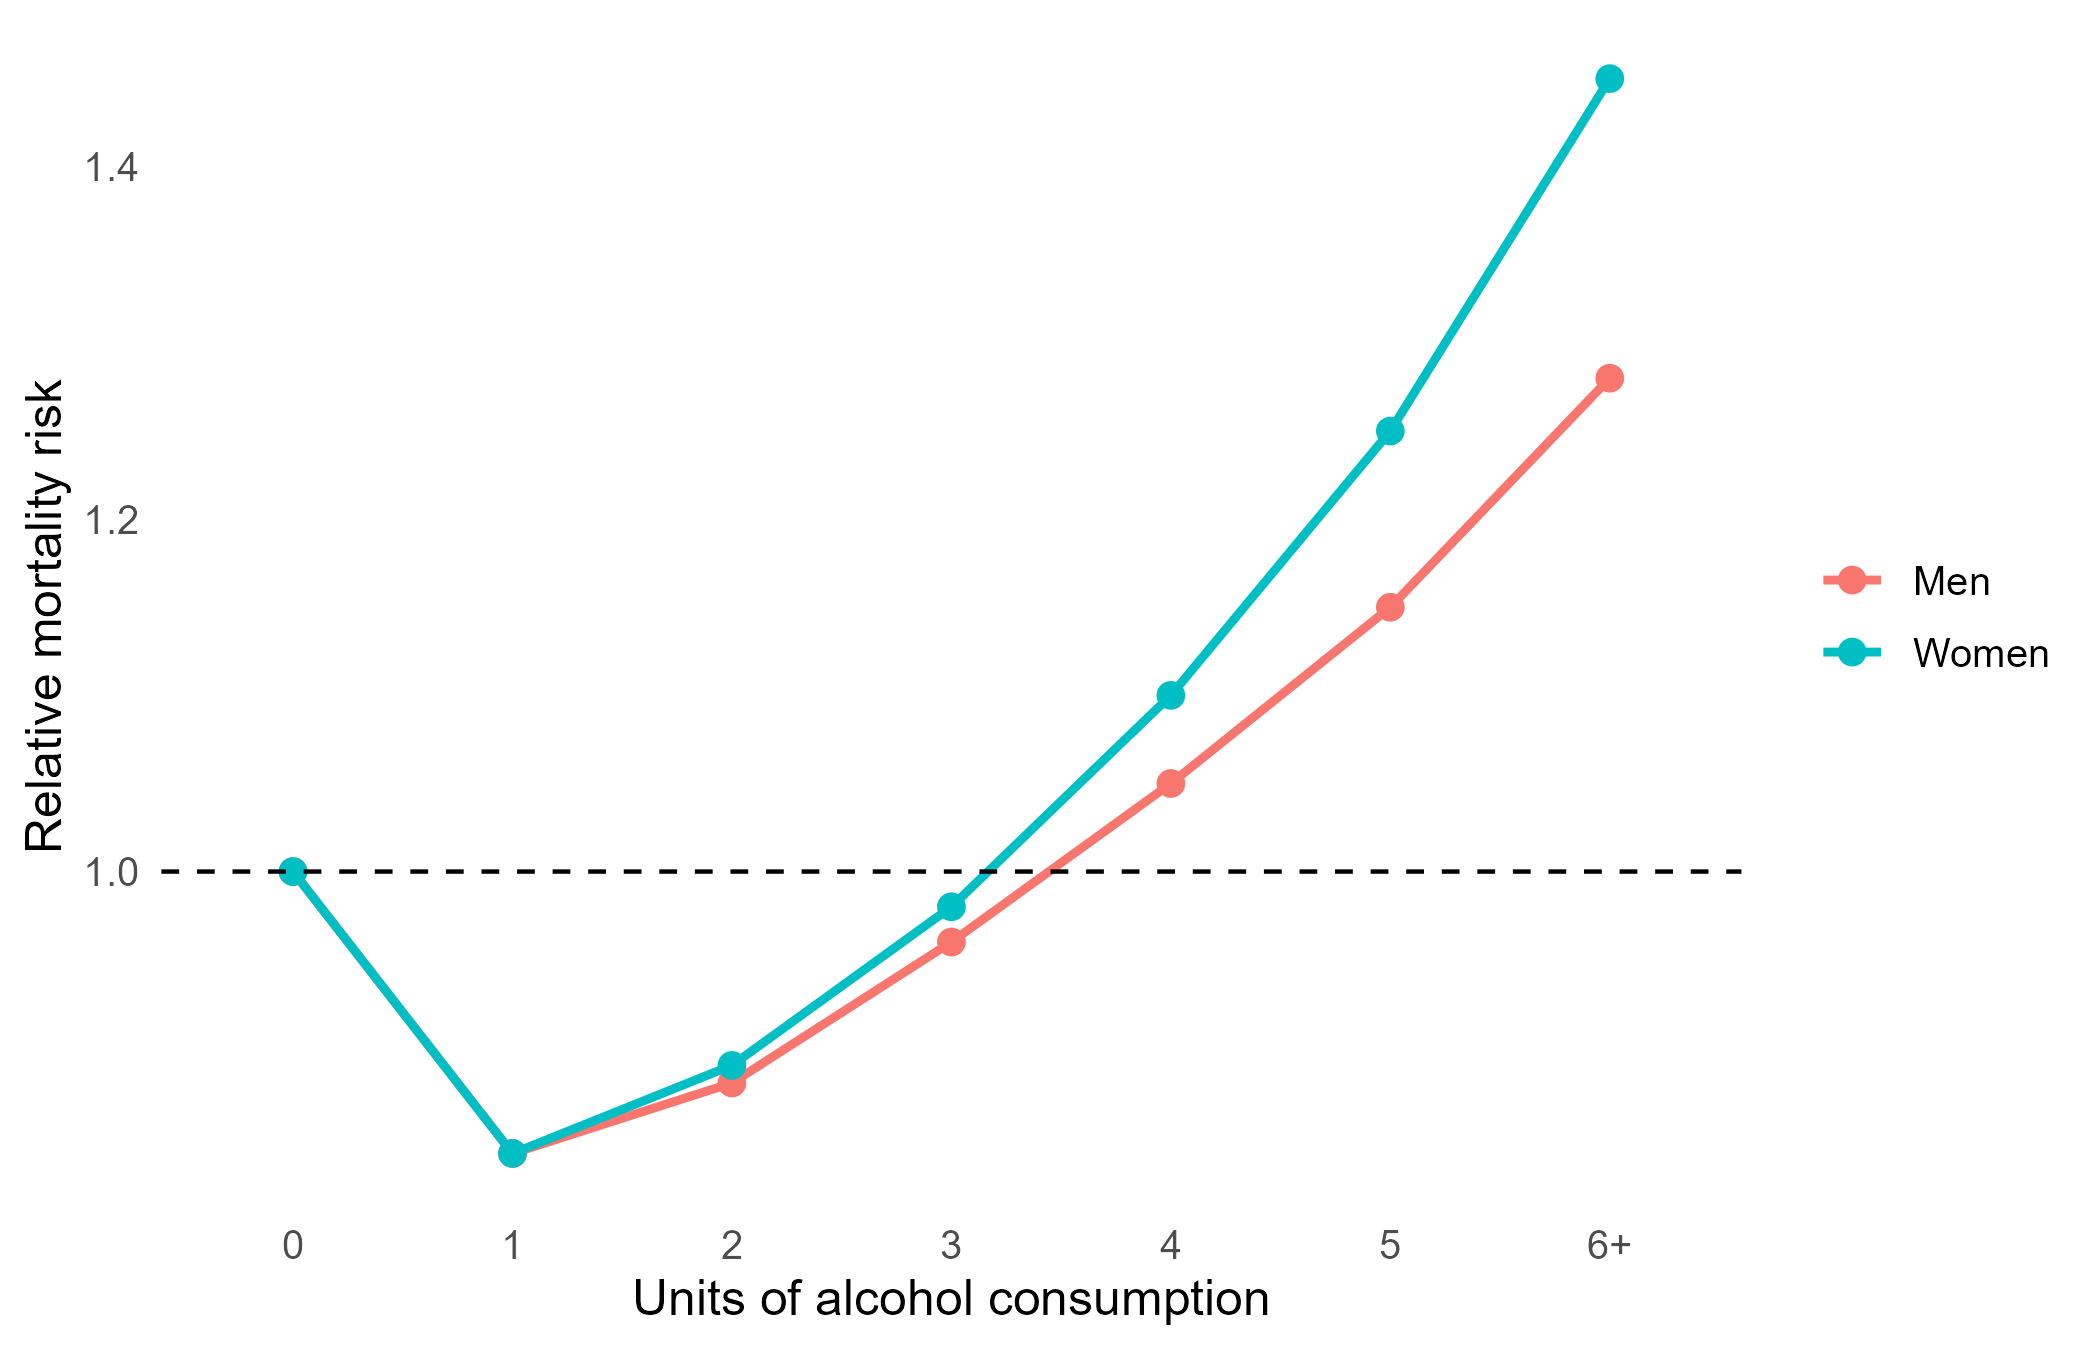
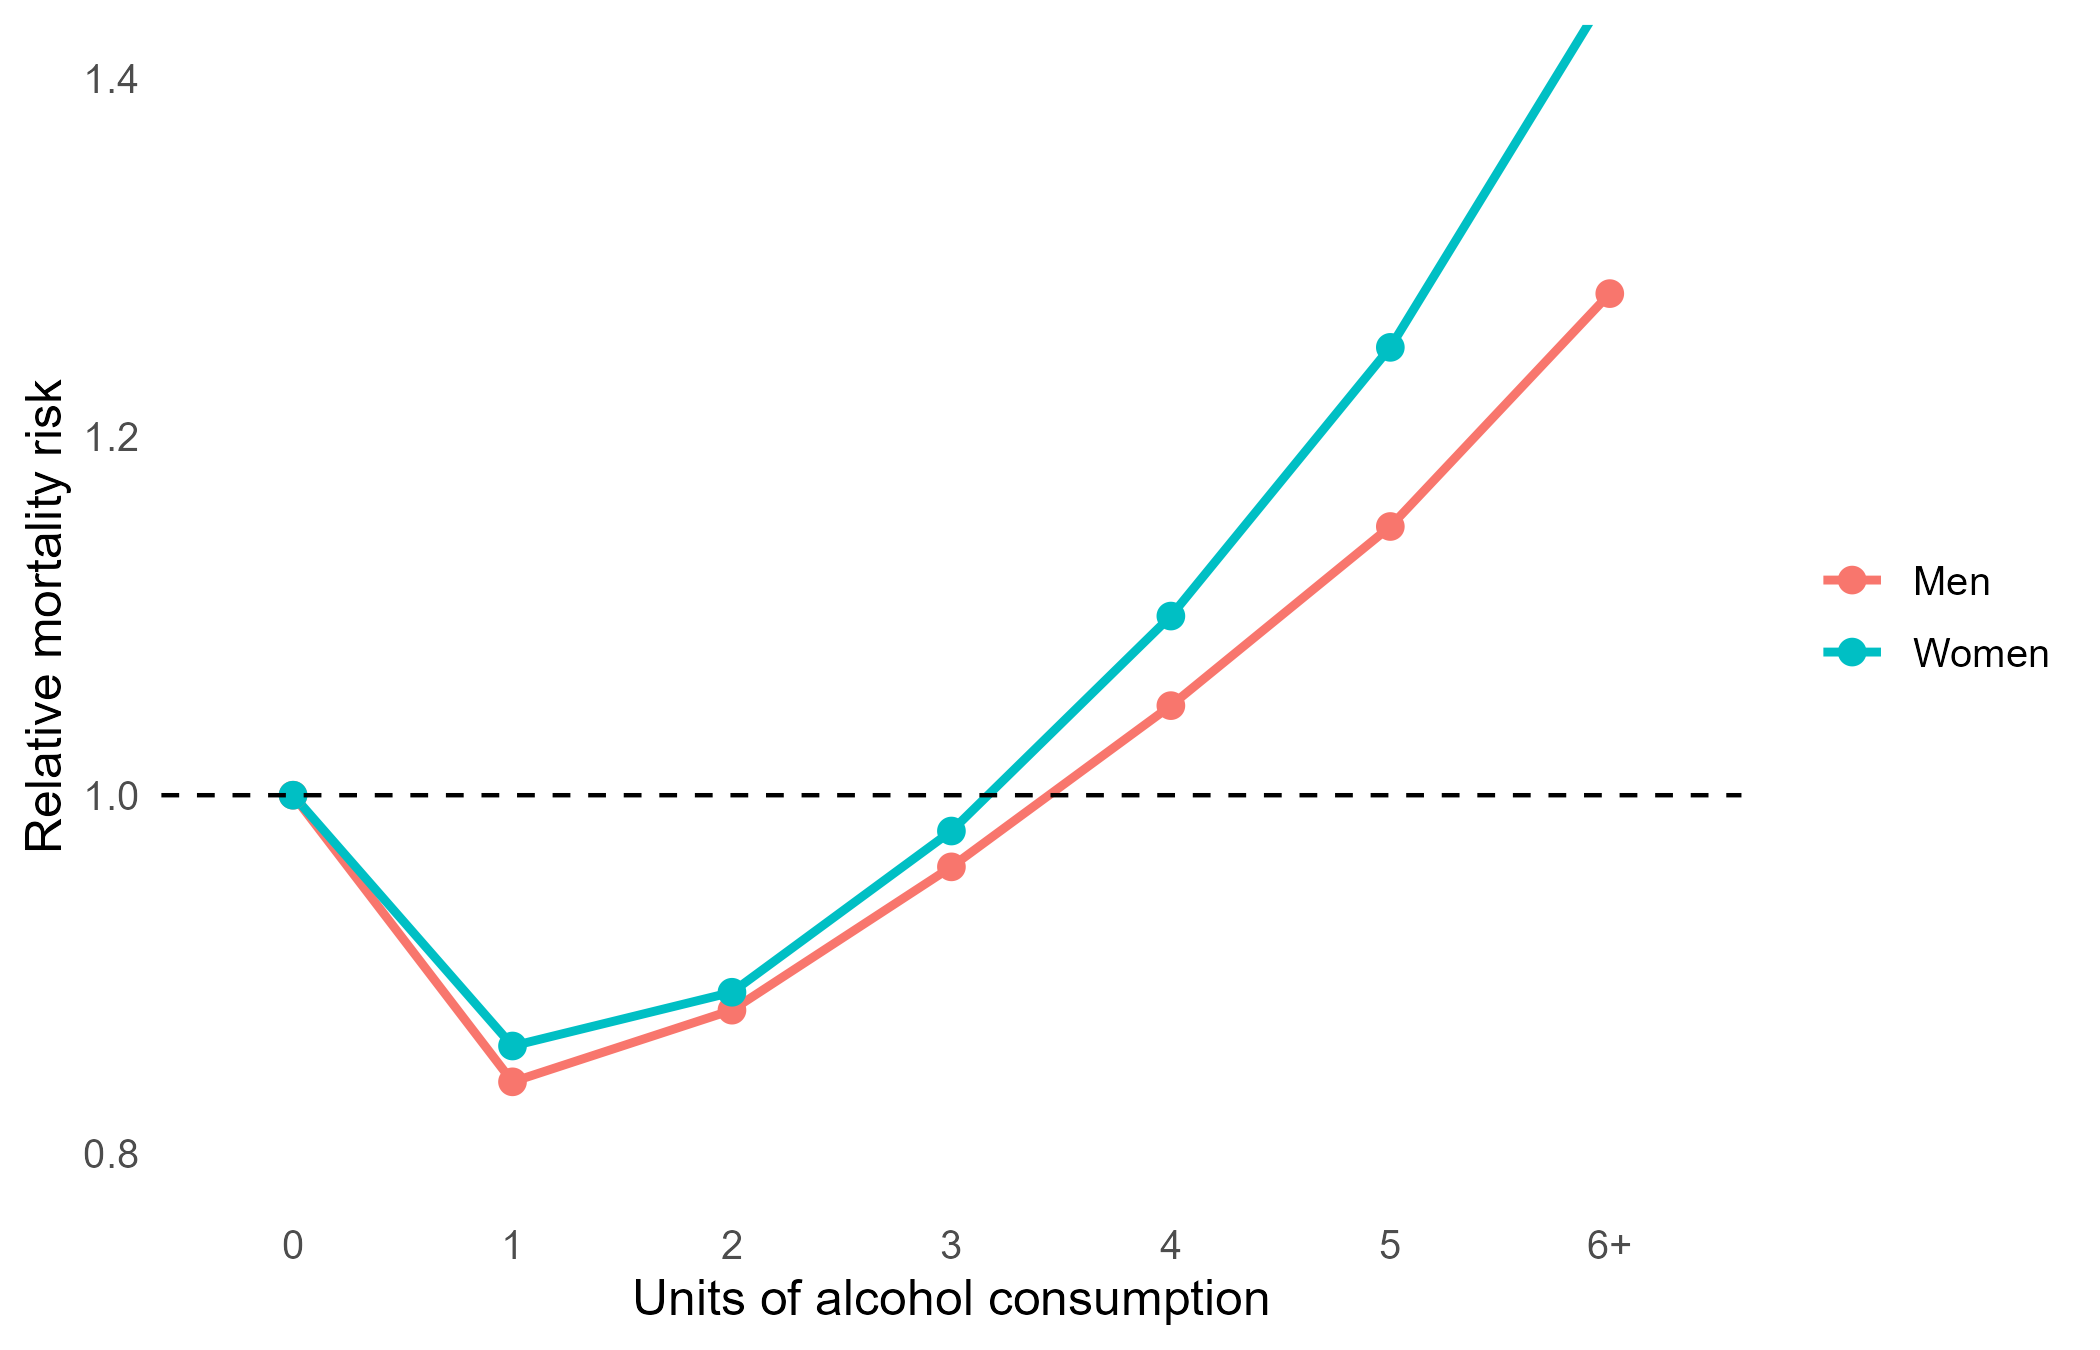
Revise interrogation, what weng wrong, and background in case 05

diff --git a/05-alcohol-mortality/case-file-05.md b/05-alcohol-mortality/case-file-05.md
@@ -39,7 +39,7 @@ Note: A greater hazard ratio means dying from cardiovascular disease is relative
 
 ## <span style="font-size: 0.9em;">The interrogation 
 
-1. According to Exhibit 1, for which amount of alcohol does mortality risk appear lowest?
+1. According to Exhibit 1, for which amount of alcohol consumption does mortality risk appear lowest?
 
 2. Do women or men have a greater relative mortality risk at the same level of alcohol intake? 
 
@@ -63,11 +63,11 @@ Note: A greater hazard ratio means dying from cardiovascular disease is relative
 
 ## <span style="font-size: 0.9em;">Answers
 
-1. One alcoholic drink per day (if considering only full units) or a third of a drink is associated with the lowest estimated relative mortality risk from all causes. At this intake, the mortality risk for men is approximately 17% and for women 13% lower.
+1. One unit of alcohol per day is associated with the lowest estimated relative mortality risk from all causes. At this intake, the mortality risk for men is approximately 16% and for women 14% lower.
 
 2. Women have a greater relative mortality risk than men at all alcohol intake levels, suggesting that to have the same relative mortality risk, women would need to drink less alcohol than men. 
 
-3. For women, three or more drinks a day are associated with a greater relative mortality risk, while for men this is five or more drinks a day.
+3. For both women and men four units of alcohol a day are associated with a greater relative mortality risk compared to people consuming no alcohol.
 
 4. The data at hand is based on self-reported alcohol intake as indicated in a survey.
 
@@ -86,11 +86,20 @@ Note: A greater hazard ratio means dying from cardiovascular disease is relative
 
 ## <span style="font-size: 0.9em;">What went wrong
 
-The reference group was erroneously constructed. To have a cleaner comparison, the reference group should only include respondents for whom abstention has been a consistent life choice rather than those who stopped drinking, for medical or other reasons, as this could impact their mortality risk.<br><br>
+The reference group was not appropriately constructed. People who report no alcohol consumption may include both lifelong abstainers and former drinkers. Some former drinkers may have stopped because of illness, medication use, or other health problems. Their mortality risk may therefore already be higher for reasons unrelated to abstaining from alcohol. This can make moderate drinkers appear healthier by comparison, an issue often referred to as the "sick quitter" effect.
+
+A better comparison would separate former drinkers from lifelong abstainers and use the latter as the reference group. The example also shows why associations found in observational data need to be interpreted carefully. A lower mortality risk among moderate drinkers does not necessarily mean that drinking alcohol caused the lower risk.<br><br>
 
 ## <span style="font-size: 0.9em;">Background
 
-The case demonstrates an evidence-based shift in health guidelines over the past decades. While in the early 1990s moderate alcohol consumption (20-30g per day) was believed to have protective effects as regards coronary heart disease risk (Renaud and de Lorgeril, 1992), recent evidence suggests that even minimal or light alcohol consumption can have negative health effects (Biddinger et al., 2022; Zhao et al., 2023). As a result, the World Health Organization now highlights that there is no safe level of alcohol intake.<br><br>
+The case reflects how the evidence on alcohol consumption and health has changed over the past decades. In the early 1990s, moderate alcohol consumption (20–30 g per day) was thought to have a protective effect against coronary heart disease (Renaud and de Lorgeril, 1992). Several observational studies appeared to support this idea, often showing lower mortality among moderate drinkers than among both heavy drinkers and non-drinkers.
+
+There are, however, problems with interpreting this pattern as a protective effect of alcohol. People who drink moderately may differ from non-drinkers in other ways that affect their health, such as smoking, diet, socioeconomic status, or existing illness. Alcohol consumption is also usually self-reported and may change over time. The composition of the non-drinking reference group is another important issue, particularly when former drinkers are grouped together with lifelong abstainers.
+
+More recent studies have questioned whether the apparent benefits of light or moderate drinking remain once some of these problems are taken into account (Biddinger et al., 2022; Zhao et al., 2023). Current public health guidance has therefore moved away from the idea that moderate alcohol consumption is beneficial. The World Health Organization states that there is no level of alcohol consumption that is without health risk.
+
+More broadly, the case shows how choices made when defining comparison groups can affect the results of an observational study, and why an observed association should not automatically be interpreted as a causal effect.<br><br>
+
 
 ## <span style="font-size: 0.9em;">Sources
 
